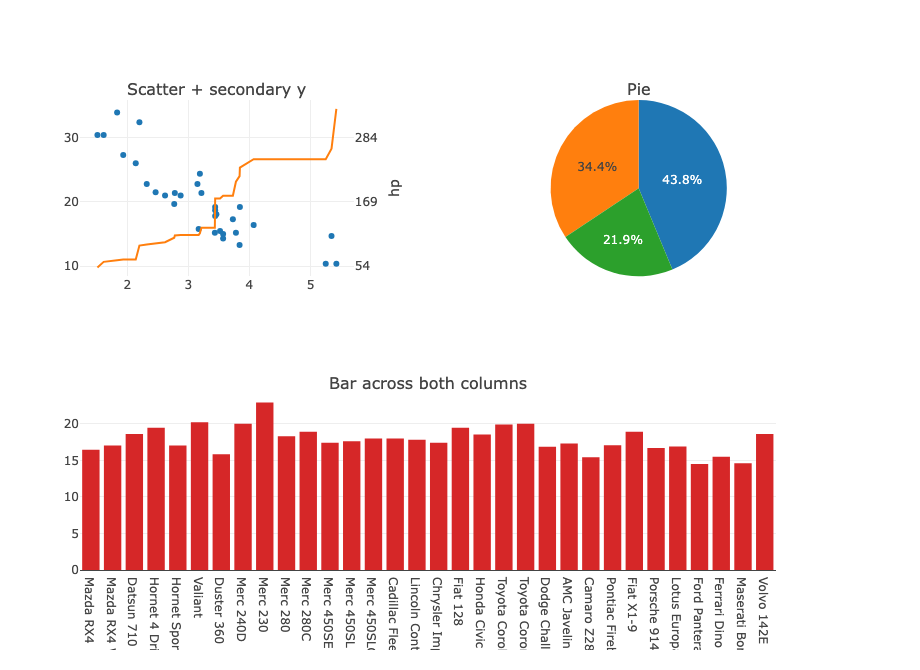
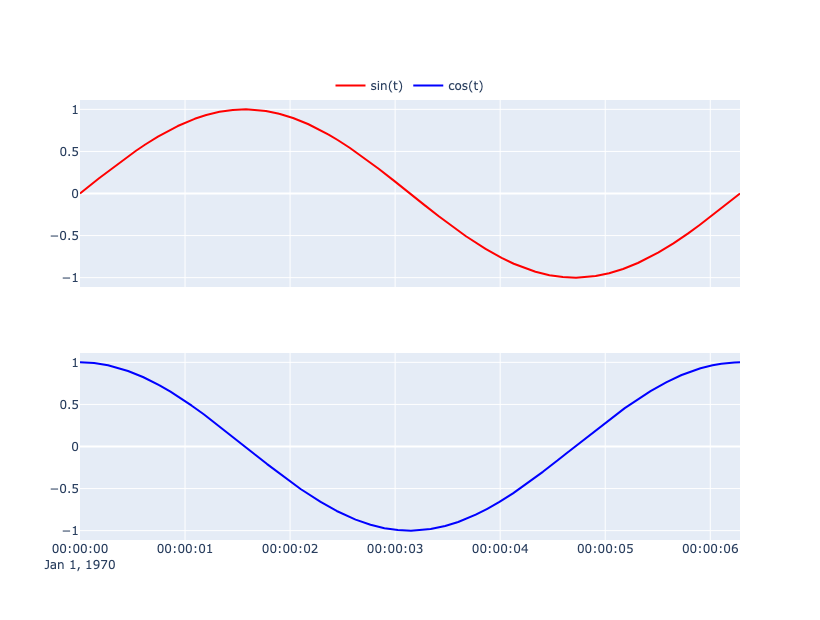
Reject objects made for another trace type and properties given twice
- vc_compound(): an object is accepted only where the schema has that
  object or one of the same shared type; errors name the constructor to use
- combine_patch(): a property given twice in patch or ... is an error
- README examples: x-y plot, shared-axis subplots, 3D scatter
- Vignettes load the smallest plotly.js bundle for their figures

diff --git a/README.md b/README.md
@@ -1,7 +1,7 @@
 # plotly.core
 
 Interactive web graphics for R built on [plotly.js](https://github.com/plotly/plotly.js). 
-plotly.core is a rendering engine for the [plotly R package](https://github.com/plotly/plotly.R) and can also be used stand-alone. 
+plotly.core is a rendering engine supporting the [plotly R package](https://github.com/plotly/plotly.R) and experimental [plotly.express R package](https://github.com/msummersgill/plotly.R.express) and can also be used stand-alone. 
 
 - **Faster plots, less browser memory** plotly.core leverages advances in plotly.js 
   to improve browser rendering performance, and implements optimizations to on
@@ -39,72 +39,17 @@ remotes::install_github("msummersgill/plotly.R.core")
 # plotly with plotly.core rendering
 remotes::install_github("msummersgill/plotly@plotly-core-render")
 ```
+## Graph Objects and Validation
 
-## Example: a 2D scatter plot with graph objects
+Every object in the plotly.js schema has a corresponding `go_*()` S3 class and constructor with all supported properties.
 
-```r
-library(plotly.core)
-
-mtcars |>
-  go_figure() |>
-  add_scatter(
-    x = ~wt,
-    y = ~mpg,
-    mode = "markers",
-    text = rownames(mtcars),
-    marker = go_scatter_marker(
-      size = 12,
-      color = ~cyl,
-      colorscale = "Viridis",
-      showscale = TRUE,
-      colorbar = go_colorbar(title = "Cylinders")
-    ),
-    hovertemplate = "%{text}<br>Weight: %{x} (1000 lbs)<br>MPG: %{y}<extra></extra>"
-  ) |>
-  update_layout(title = "Fuel economy vs. weight (mtcars)") |>
-  update_xaxes(title = "Weight (1000 lbs)") |>
-  update_yaxes(title = "Miles per gallon")
-```
-
-![](man/figures/README-mtcars-scatter.png)
-
-## Example: subplots
-
-```r
-fig <- make_subplots(
-  rows = 2, cols = 2,
-  specs = list(
-    list(list(secondary_y = TRUE), list(type = "domain")),
-    list(list(colspan = 2), NULL)
-  ),
-  subplot_titles = c("Scatter + secondary y", "Pie", "Bar across both columns")
-) |>
-  add_scatter(x = mtcars$wt, y = mtcars$mpg, mode = "markers", name = "mpg", row = 1, col = 1) |>
-  add_scatter(x = sort(mtcars$wt), y = sort(mtcars$hp), mode = "lines", name = "hp",
-              row = 1, col = 1, secondary_y = TRUE) |>
-  add_pie(labels = c("4", "6", "8"), values = as.vector(table(mtcars$cyl)), row = 1, col = 2) |>
-  add_bar(x = rownames(mtcars), y = mtcars$qsec, name = "qsec", row = 2, col = 1) |>
-  update_yaxes(title = "hp", row = 1, col = 1, secondary_y = TRUE) |>
-  update_layout(showlegend = FALSE)
-```
-
-![A 2x2 subplot grid with a scatter plot and secondary y axis, a pie chart, and a bar chart spanning the bottom row](man/figures/README-subplots.png)
-
-## Graph objects and validation
-
-Every object in the plotly.js schema has a `go_*()` constructor with exactly
-its properties, so autocomplete shows only what is valid there:
-
-- traces and the layout: `go_scatter()`, `go_bar()`, ..., `go_layout()`;
-- objects nested in them, named after their path: `go_scatter_marker()`,
-  `go_scatter_marker_line()`, `go_xaxis()`, `go_scene_camera()`,
-  `go_annotation()`, `go_slider_step()`, ...;
-- objects that appear in many places, with one constructor for all of them:
-  `go_font()`, `go_colorbar()`, `go_hoverlabel()`, `go_error_bar()`,
-  `go_scene_axis()`, `go_selected()`, ....
-
-Named lists work wherever a constructor does (`marker = list(size = 12)`).
-One-sided formulas such as `color = ~cyl` are kept by constructors and
+- Each trace type and layout: `go_scatter()`, `go_bar()`, ..., `go_layout()`;
+- Line and Marker objects support different parameters for each trace type and get a dedicated constructor for each trace type:
+  `go_scatter_line()`,`go_scatter_marker()`,`go_scatter_marker_line()`
+- Objects used in multiple trace types or layout objects have shared constructors:
+  `go_colorbar()`, `gofont`, `go_scene_axis()`...
+- Named lists work wherever a constructor does (`marker = list(size = 12)`).
+- One-sided formulas such as `color = ~cyl` are kept by constructors and
 evaluated in the figure's data when the trace is added:
 
 ```r
@@ -118,32 +63,122 @@ mtcars |>
   update_layout(xaxis = go_xaxis(title = "Cylinders"))
 ```
 
-Every property is checked against the plotly.js schema when an object is
-created, and again when it is placed in a figure, so mistakes are caught
-immediately:
+Every property is checked against the plotly.js schema, so typos or incorrect parameters
+are surfaced with informative error messages.
+
+Unsupported value for a valid property lists supported options:
 
 ```r
-add_scatter(fig, x = mtcars$wt, y = mtcars$mpg, mode = "dots")
+go_scatter(x = mtcars$wt, y = mtcars$mpg, mode = "dots")
 #> Error: Invalid value of type 'character' received for the 'mode' property of scatter
 #>     Received value: "dots"
 #>
 #>     The 'mode' property is a flaglist and may be specified as a string containing:
 #>       - Any combination of "lines", "markers", "text" joined with '+' characters (e.g. 'lines+markers')
 #>         OR exactly one of "none"
-
-add_bar(fig, x = mtcars$cyl, y = mtcars$mpg, marker = go_font(size = 3))
-#> Error: A go_font() object can't be used for bar.marker, which is an object (a named list)
 ```
 
-plotly.py's "magic underscore" names are not supported; the error shows the
-nested call instead:
+Wrong graph object provided gives a hint for the expected object:
 
 ```r
-add_scatter(fig, x = mtcars$wt, y = mtcars$mpg, marker_size = 12)
-#> Error: Invalid property specified for go_scatter(): 'marker_size'
-#>
-#> Nested properties are set with their objects: marker = go_scatter_marker(size = ...)
+go_bar(x = mtcars$cyl, y = mtcars$mpg, marker = go_font(size = 3))
+#> Error: A go_font() object can't be used for bar.marker: use go_bar_marker()
+
 ```
+
+Invalid property names throw an error with list of all the properties supported by schema:
+
+```r
+go_font(foo = "bar")
+#> Error: Invalid property specified for go_font(): 'foo'
+#> 
+#>     Valid properties:
+#>         color, family, lineposition, shadow, size, style, textcase, variant, weight
+```
+
+Invalid schema element in a legacy plotly methods drops invalid elements and warns. _(Legacy plotly R rendered with no warning)_
+
+```r
+plotly::plot_ly() |> 
+  plotly::add_markers(x = 1, y = 1, mode = "markers", marker = list(foo = "bar"))
+#> Warning message:
+#> Invalid property specified for scatter.marker: 'foo'
+#> 
+#>     Valid properties:
+#>         angle, angleref, autocolorscale, cauto, cmax, cmid, cmin, color, coloraxis, colorbar,
+#>         colorscale, gradient, line, maxdisplayed, opacity, reversescale, showscale, size,
+#>         sizemin, sizemode, sizeref, standoff, symbol
+#> (invalid attributes are ignored) 
+```
+
+## Examples
+
+Generate some data for plotting, store in a `data.table`. plotly.core supports any 
+data format that inherits `data.frame`, and trace values can also be defined by 
+vectors.
+
+```r
+library(plotly.core)
+library(data.table)
+
+DT <- data.table(t = seq.POSIXt(from = as.POSIXct(0, tz = "UTC"),
+                                to = as.POSIXct(2 * pi, tz = "UTC"),
+                                length.out = 10000))
+DT[, sin := sin(as.numeric(t))]
+DT[, cos := cos(as.numeric(t))]
+DT[, tan := tan(as.numeric(t))]
+```
+
+### Basic x-y plot
+
+```r
+DT |>
+  go_figure() |>
+  add_scatter(x = ~t, y = ~sin, name = "sin(t)",
+              mode = "lines", line = go_scatter_line(color = "red")) |>
+  add_scatter(x = ~t, y = ~cos, name = "cos(t)",
+              mode = "lines", line = go_scatter_line(color = "blue")) |>
+  update_layout(legend = go_legend(orientation = "h",
+                                   x = 0.5, xanchor = "center",
+                                   y = 1, yanchor = "bottom"))
+```
+
+![](man/figures/README-scatter.png)
+
+### Subplots with a shared Axis
+
+```r
+make_subplots(rows = 2, shared_xaxes = TRUE) |>
+  add_scatter(row = 1, col = 1,
+              data = DT, x = ~ t, y = ~ sin, name = "sin(t)", 
+              mode = "lines", line = go_scatter_line(color = "red")) |>
+  add_scatter(row = 2, col = 1,
+              data = DT, x = ~ t, y = ~ cos, name = "cos(t)", 
+              mode = "lines", line = go_scatter_line(color = "blue")) |>
+  update_layout(legend = go_legend(orientation = "h",
+                                   x = 0.5, xanchor = "center",
+                                   y = 1, yanchor = "bottom"))
+```
+
+![](man/figures/README-subplots.png)
+
+### 3D scatter plot
+
+```r
+DT |>
+  go_figure() |>
+  add_scatter3d(x = ~ cos, y = ~ sin, z = ~ tan,
+                mode = "markers",
+                marker = go_scatter3d_marker(size = 5,
+                                             color = ~ tan,
+                                             cmin = -100, cmax = 100,
+                                             colorscale = "Portland")) |>
+  update_scenes(xaxis = go_scene_axis(title = "cos(t)"),
+                xaxis = go_scene_axis(title = "sin(t)"),
+                zaxis = go_scene_axis(title = "tan(t)", range = c(-100, 100)))
+```
+
+![](man/figures/README-scatter3d.png)
 
 ## Shiny
 
